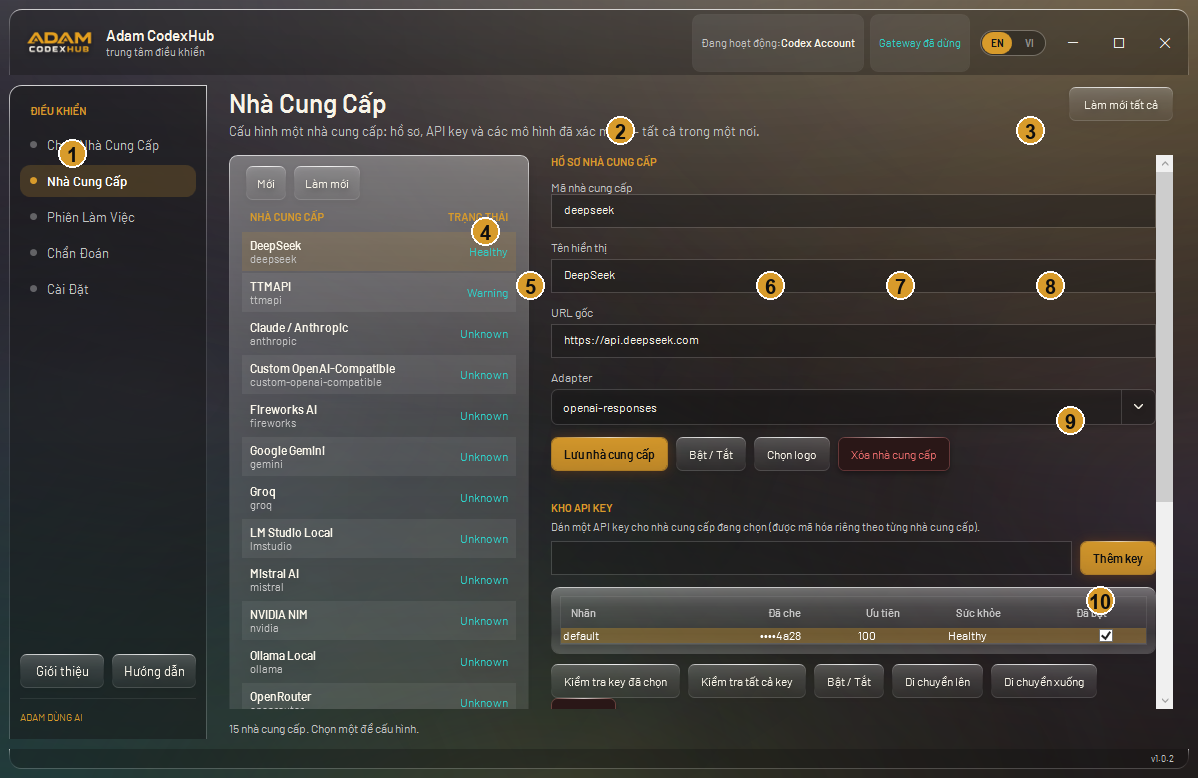
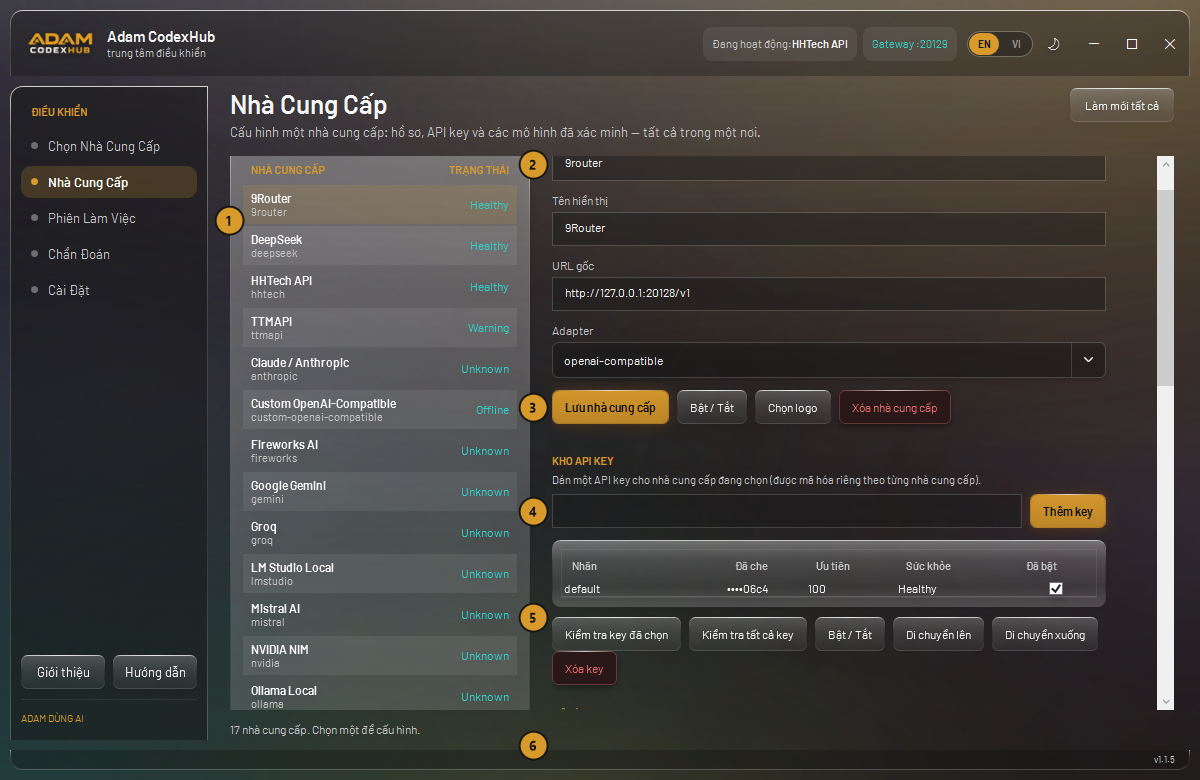
docs: refresh all app screenshots to the current UI (v1.1.5)
- re-capture the 5 in-app guide images (tabs 1-5) from the live build with numbered callouts; add badges 6-7 for the new session hand-off switches in Settings

- refresh the 5 README screenshots as v1.1.5 and remove the stale v1.1.4 set

- update EN/VI guide legends (hand-off steps, provider-card wording) and keep the hand-off log note

Captured from the running app over UI Automation; badge placement verified against element rects and with vision.

diff --git a/src/AdamCodexHub.App/Resources/Locales/Locale.VI.xaml b/src/AdamCodexHub.App/Resources/Locales/Locale.VI.xaml
@@ -145,7 +145,7 @@
     <sys:String x:Key="L10n_Guide_FitTip">Vừa khung sơ đồ theo chiều rộng cửa sổ</sys:String>
     <sys:String x:Key="L10n_Guide_FitLabel">Vừa khung</sys:String>
     <sys:String x:Key="L10n_Guide_Tab1Title">ẢNH TAB 1 · CHỌN NHÀ CUNG CẤP</sys:String>
-    <sys:String x:Key="L10n_Guide_Tab1Legend">① Menu chung: chuyển giữa các tab. ② Trạng thái provider và gateway. ③ Làm mới tất cả. ④ Làm mới provider. ⑤ Hiện/ẩn toàn bộ provider. ⑥ Các card Codex Account, Codex CLI, DeepSeek và TTMAPI: nhấp đúp để kích hoạt. ⑦ Sơ đồ API key → gateway → Codex. ⑧ Mở About hoặc Guide.</sys:String>
+    <sys:String x:Key="L10n_Guide_Tab1Legend">① Menu chung: chuyển giữa các tab. ② Trạng thái provider và gateway. ③ Làm mới tất cả. ④ Làm mới provider. ⑤ Hiện/ẩn toàn bộ provider. ⑥ Các card nhà cung cấp (mỗi nhà cung cấp có thẻ W cho Codex Windows và thẻ CLI): nhấp đúp để kích hoạt. ⑦ Sơ đồ API key → gateway → Codex. ⑧ Mở About hoặc Guide.</sys:String>
     <sys:String x:Key="L10n_Guide_Tab2Title">ẢNH TAB 2 · NHÀ CUNG CẤP</sys:String>
     <sys:String x:Key="L10n_Guide_Tab2Legend">① Chọn provider ở danh sách bên trái. ② Sửa ID, tên, URL và adapter ở biểu mẫu bên phải. ③ Lưu, bật/tắt, chọn logo hoặc xóa provider. ④ Dán API key rồi bấm Thêm key. ⑤ Kiểm tra, bật/tắt và sắp xếp key. ⑥ Quét model, kiểm tra model và bật model muốn dùng.</sys:String>
     <sys:String x:Key="L10n_Guide_Tab3Title">ẢNH TAB 3 · PHIÊN LÀM VIỆC</sys:String>
@@ -153,7 +153,7 @@
     <sys:String x:Key="L10n_Guide_Tab4Title">ẢNH TAB 4 · CHẨN ĐOÁN</sys:String>
     <sys:String x:Key="L10n_Guide_Tab4Legend">① Kiểm tra trạng thái gateway nội bộ. ② Khởi động hoặc dừng gateway. ③ Kiểm tra cấu hình Codex và hồ sơ tài khoản. ④ Khôi phục bản cấu hình tốt nhất. ⑤ Làm mới toàn bộ thông tin chẩn đoán.</sys:String>
     <sys:String x:Key="L10n_Guide_Tab5Title">ẢNH TAB 5 · CÀI ĐẶT</sys:String>
-    <sys:String x:Key="L10n_Guide_Tab5Legend">① Kiểm tra các mặc định bảo mật. ② Gateway chỉ dùng loopback trên máy này. ③ Bật/tắt tự động chuyển key dự phòng. ④ Bật/tắt tự làm mới phiên cũ. ⑤ Kiểm soát việc ghi nhật ký request/response.</sys:String>
+    <sys:String x:Key="L10n_Guide_Tab5Legend">① Kiểm tra các mặc định bảo mật. ② Gateway chỉ dùng loopback trên máy này. ③ Bật/tắt tự động chuyển key dự phòng. ④ Bật/tắt tự làm mới phiên cũ. ⑤ Kiểm soát việc ghi nhật ký request/response. ⑥ Mở chat Codex mới khi kích hoạt nhà cung cấp. ⑦ Tự gửi bối cảnh phiên làm việc vào chat mới.</sys:String>
     <sys:String x:Key="L10n_Guide_NumberLegendTitle">CHÚ THÍCH THEO SỐ</sys:String>
     <sys:String x:Key="L10n_Guide_Legend1">Menu điều hướng giữa các khu vực của CodexHub.</sys:String>
     <sys:String x:Key="L10n_Guide_Legend2">Tên trang và trạng thái cấu hình đang mở.</sys:String>

diff --git a/src/AdamCodexHub.App/Resources/Locales/Locale.EN.xaml b/src/AdamCodexHub.App/Resources/Locales/Locale.EN.xaml
@@ -145,7 +145,7 @@
     <sys:String x:Key="L10n_Guide_FitTip">Fit the diagram to the window width</sys:String>
     <sys:String x:Key="L10n_Guide_FitLabel">Fit</sys:String>
     <sys:String x:Key="L10n_Guide_Tab1Title">TAB IMAGE 1 · CHOOSE PROVIDER</sys:String>
-    <sys:String x:Key="L10n_Guide_Tab1Legend">① Shared menu: switch between tabs. ② Provider and gateway status. ③ Refresh all. ④ Refresh providers. ⑤ Show or hide all providers. ⑥ Codex Account, Codex CLI, DeepSeek and TTMAPI cards: double-click to activate. ⑦ API key → gateway → Codex diagram. ⑧ Open About or Guide.</sys:String>
+    <sys:String x:Key="L10n_Guide_Tab1Legend">① Shared menu: switch between tabs. ② Provider and gateway status. ③ Refresh all. ④ Refresh providers. ⑤ Show or hide all providers. ⑥ Provider cards (each provider has a W card for Codex Windows and a CLI card): double-click to activate. ⑦ API key → gateway → Codex diagram. ⑧ Open About or Guide.</sys:String>
     <sys:String x:Key="L10n_Guide_Tab2Title">TAB IMAGE 2 · PROVIDERS</sys:String>
     <sys:String x:Key="L10n_Guide_Tab2Legend">① Select a provider on the left. ② Edit its ID, name, URL and adapter. ③ Save, enable/disable, choose a logo or delete it. ④ Paste an API key and choose Add key. ⑤ Check, enable/disable and reorder keys. ⑥ Scan, test and enable the models you want.</sys:String>
     <sys:String x:Key="L10n_Guide_Tab3Title">TAB IMAGE 3 · SESSIONS</sys:String>
@@ -153,7 +153,7 @@
     <sys:String x:Key="L10n_Guide_Tab4Title">TAB IMAGE 4 · DIAGNOSTICS</sys:String>
     <sys:String x:Key="L10n_Guide_Tab4Legend">① Check the local gateway status. ② Start or stop the gateway. ③ Check Codex configuration and account profile. ④ Restore the best known configuration. ⑤ Refresh diagnostics.</sys:String>
     <sys:String x:Key="L10n_Guide_Tab5Title">TAB IMAGE 5 · SETTINGS</sys:String>
-    <sys:String x:Key="L10n_Guide_Tab5Legend">① Review security defaults. ② Keep the gateway loopback-only. ③ Enable/disable automatic fallback-key switching. ④ Enable/disable automatic old-session refresh. ⑤ Control request/response logging.</sys:String>
+    <sys:String x:Key="L10n_Guide_Tab5Legend">① Review security defaults. ② Keep the gateway loopback-only. ③ Enable/disable automatic fallback-key switching. ④ Enable/disable automatic old-session refresh. ⑤ Control request/response logging. ⑥ Open a fresh Codex chat when a provider is activated. ⑦ Send the session recap into the new chat automatically.</sys:String>
     <sys:String x:Key="L10n_Guide_NumberLegendTitle">NUMBERED GUIDE</sys:String>
     <sys:String x:Key="L10n_Guide_Legend1">Navigation menu between CodexHub areas.</sys:String>
     <sys:String x:Key="L10n_Guide_Legend2">Current page and configuration status.</sys:String>

diff --git a/src/AdamCodexHub.App/ViewModels/PageViewModels.cs b/src/AdamCodexHub.App/ViewModels/PageViewModels.cs
@@ -578,6 +578,24 @@ public sealed class HomeViewModel : PageViewModel
         }
     }
 
+    /// <summary>Records a plain decision in the same log the failures go to — no exception needed.</summary>
+    private static void LogNote(string stage, string message)
+    {
+        try
+        {
+            var dir = Path.Combine(
+                Environment.GetFolderPath(Environment.SpecialFolder.LocalApplicationData),
+                "AdamCodexHub", "logs");
+            Directory.CreateDirectory(dir);
+            File.AppendAllText(
+                Path.Combine(dir, "ui.log"),
+                $"{DateTimeOffset.Now:O} | {stage} | {message}{Environment.NewLine}");
+        }
+        catch
+        {
+        }
+    }
+
     private async Task RestoreAccountAsync()
     {
         try
@@ -690,6 +708,12 @@ public sealed class HomeViewModel : PageViewModel
             if (startFreshChat && workspace is not null && CodexHandoffPreferences.Load().OpenFreshChat)
             {
                 StartContinuationChat(workspace);
+            }
+            else if (startFreshChat && workspace is not null)
+            {
+                LogNote(
+                    "Session hand-off skipped",
+                    "Disabled in Settings: CodexHandoffPreferences.OpenFreshChat = false.");
             }
 
             return true;

diff --git a/README.md b/README.md
@@ -57,23 +57,23 @@ Instead of repeatedly editing `~/.codex/config.toml`, exposing API keys, or forc
 
 **Choose Provider** — provider cards with per-card model dropdowns, one-row collapse with expand chevron, and the "how it works" flow below.
 
-![Choose Provider](docs/images/screenshot-home-v1.1.4.png)
+![Choose Provider](docs/images/screenshot-home-v1.1.5.png)
 
 **Providers** — provider profile, encrypted key pool (DPAPI) and the verified model list in one place.
 
-![Providers](docs/images/screenshot-providers-v1.1.4.png)
+![Providers](docs/images/screenshot-providers-v1.1.5.png)
 
 **Sessions** — provider-safe project state and continuation handoffs.
 
-![Sessions](docs/images/screenshot-sessions-v1.1.4.png)
+![Sessions](docs/images/screenshot-sessions-v1.1.5.png)
 
 **Diagnostics** — local gateway state and Codex configuration recovery.
 
-![Diagnostics](docs/images/screenshot-diagnostics-v1.1.4.png)
+![Diagnostics](docs/images/screenshot-diagnostics-v1.1.5.png)
 
 **Settings** — enforced security and session defaults.
 
-![Settings](docs/images/screenshot-settings-v1.1.4.png)
+![Settings](docs/images/screenshot-settings-v1.1.5.png)
 
 ## Why Adam CodexHub?
 
